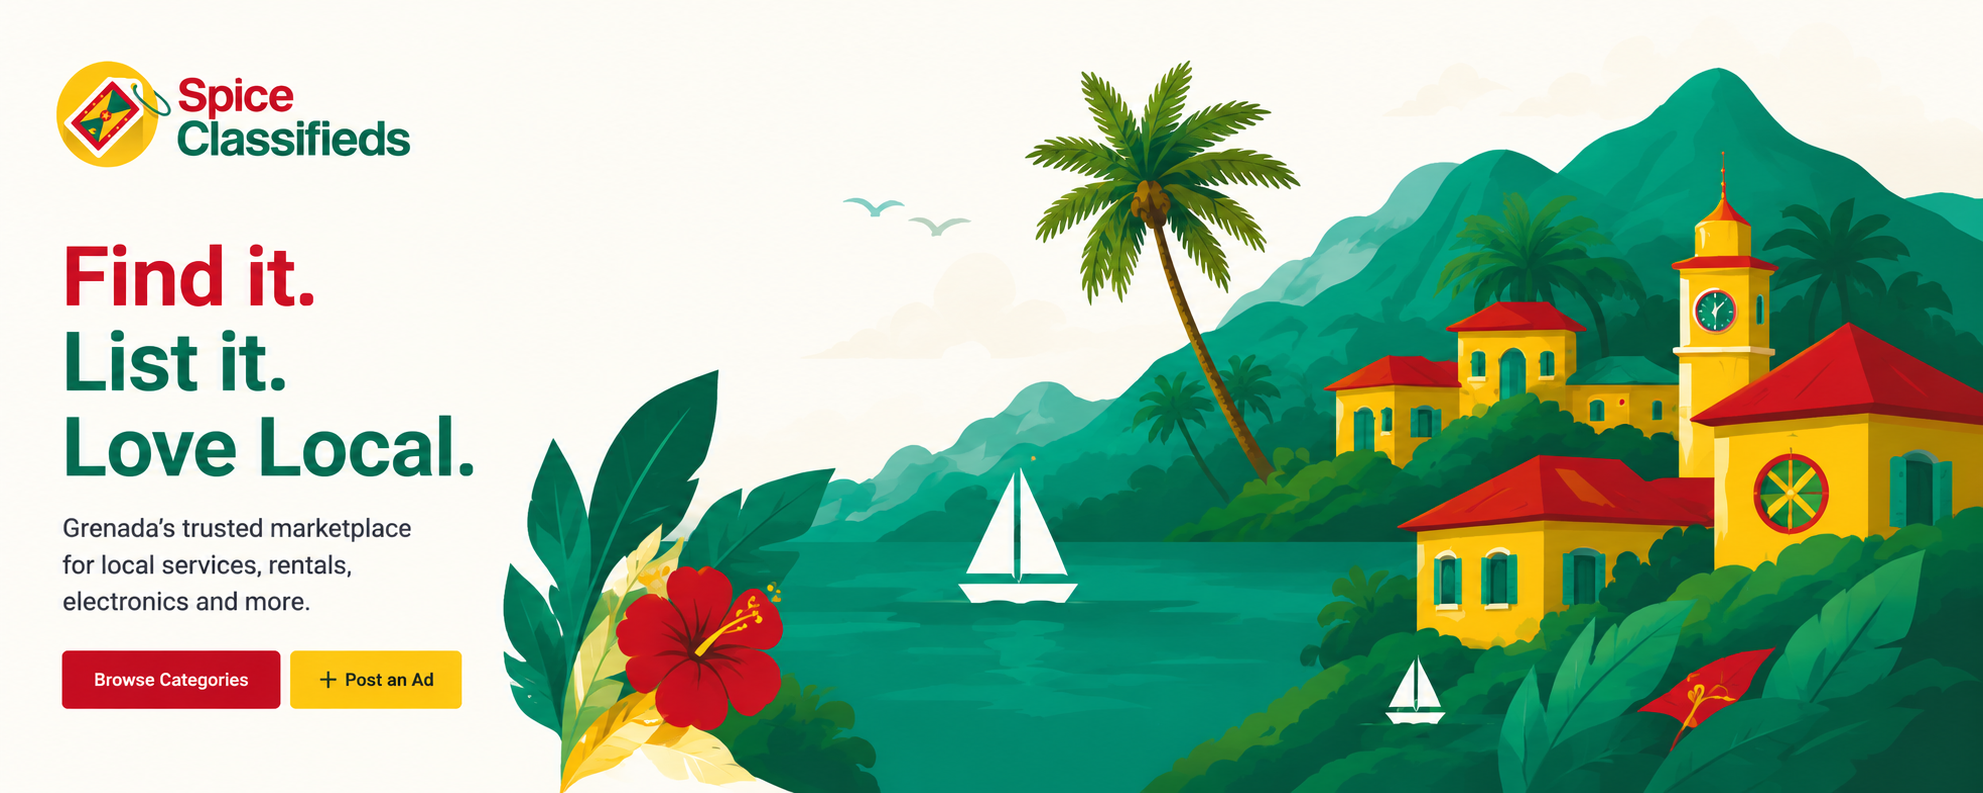
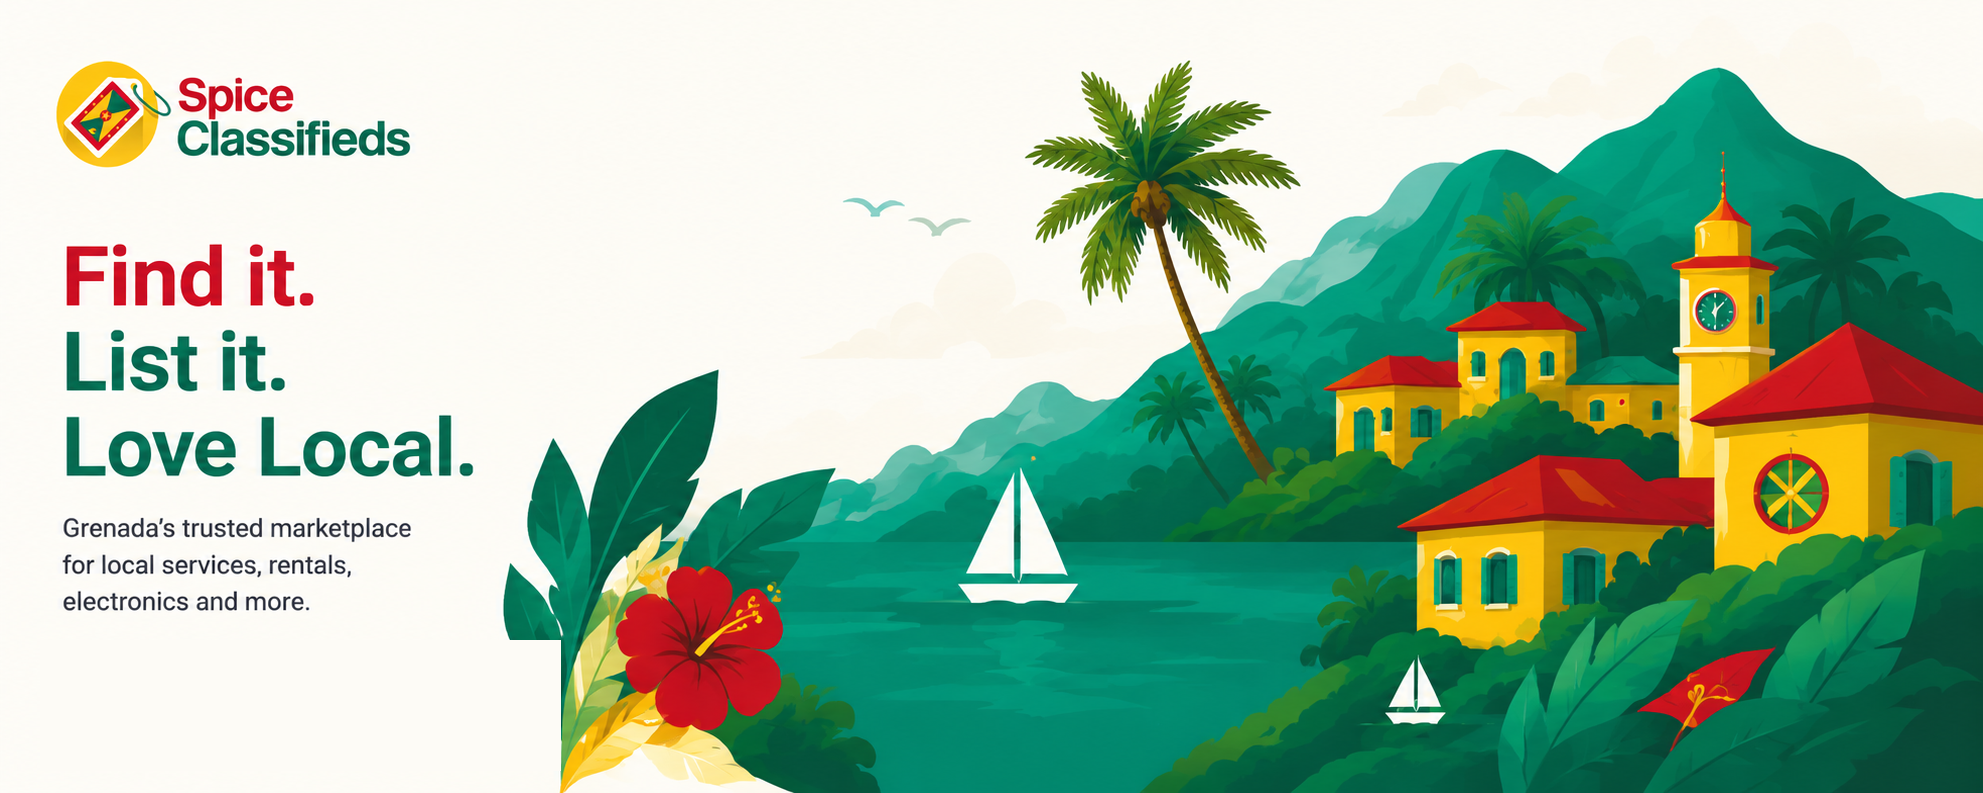
Update SpiceClassifieds to latest version
https://claude.ai/code/session_01GbTFn1tYZZQ8xgQBm2Sfyi

Changed region(s): [[0.0308, 0.7869, 0.3076, 0.9382]]

diff --git a/app/page.tsx b/app/page.tsx
@@ -30,19 +30,19 @@ export default function HomePage() {
       <AnnounceBar />
       <Header />
 
-      {/* Hero banner - full-bleed illustration, no text overlay since the banner already contains the headline */}
+      {/* Banner - now without the fake buttons */}
       <section className="hero-banner">
         <Image
           src="/hero-banner.webp"
           alt="Find it. List it. Love Local. — Grenada's trusted marketplace"
-          width={1920}
-          height={720}
+          width={1983}
+          height={793}
           priority
           className="hero-banner-img"
         />
       </section>
 
-      {/* Action row below the banner */}
+      {/* Real working buttons below the banner */}
       <section className="hero-actions-row">
         <div className="container">
           <div className="hero-search">
